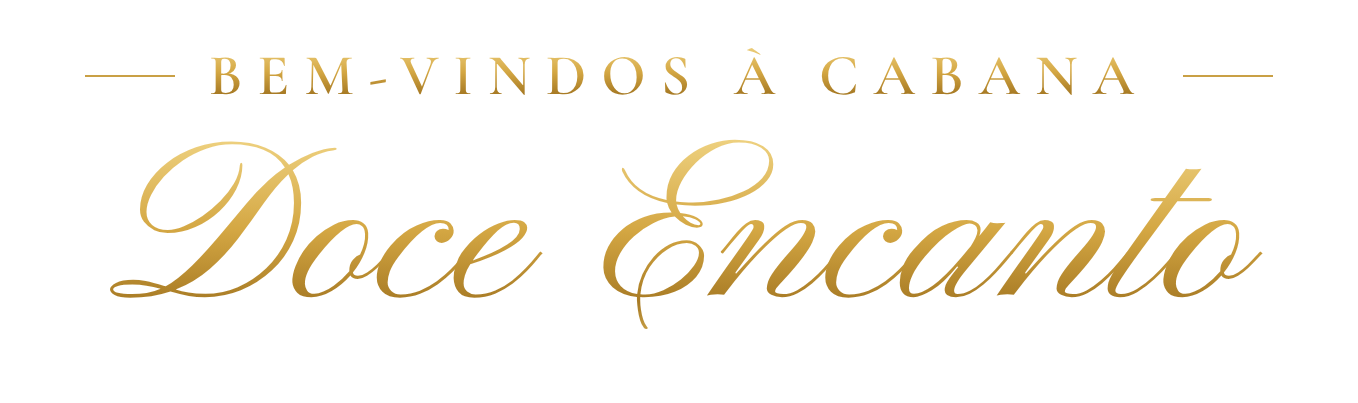
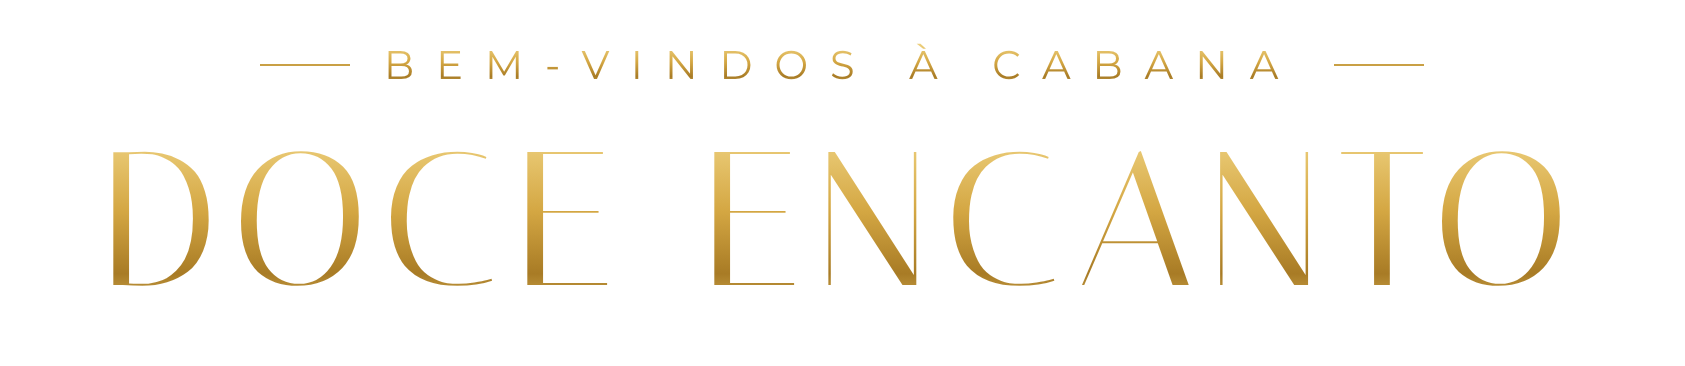
Boas-vindas com fonte moderna
Claude-Session: https://claude.ai/code/session_01DGaSmMXhRVQXAQK6gDFrFo

diff --git a/stories-cabana/boas-vindas/gerar.js b/stories-cabana/boas-vindas/gerar.js
@@ -6,14 +6,14 @@ const cores = {
   preto:   { txt: 'linear-gradient(180deg,#111 0%,#111 100%)', linha: '#111' },
 };
 const html = (c) => `<!doctype html><html><head><meta charset="utf-8"><style>
-@import url('https://fonts.googleapis.com/css2?family=Cormorant+Garamond:wght@500;600&family=Pinyon+Script&display=block');
+@import url('https://fonts.googleapis.com/css2?family=Montserrat:wght@300;400&family=Italiana&display=block');
 html,body{margin:0;background:transparent}
 #t{display:inline-block;padding:40px 80px;text-align:center}
 .g{background:${c.txt};-webkit-background-clip:text;background-clip:text;color:transparent}
-.top{font-family:'Cormorant Garamond',serif;font-weight:600;font-size:58px;letter-spacing:.26em;text-transform:uppercase;
+.top{font-family:'Montserrat',sans-serif;font-weight:400;font-size:40px;letter-spacing:.55em;text-transform:uppercase;
   display:flex;align-items:center;justify-content:center;gap:34px}
 .top i{display:block;width:90px;height:2px;background:${c.linha}}
-.nome{font-family:'Pinyon Script',cursive;font-size:230px;line-height:1.05;margin-top:10px;padding:0 30px}
+.nome{font-family:'Italiana',serif;font-size:190px;line-height:1.1;margin-top:28px;padding:0 20px;letter-spacing:.08em;text-transform:uppercase}
 .sub{font-family:'Cormorant Garamond',serif;font-weight:500;font-size:44px;letter-spacing:.5em;text-transform:uppercase;margin-top:6px}
 </style></head><body><div id="t">
 <div class="top"><i></i><span class="g">Bem-vindos à Cabana</span><i></i></div>
